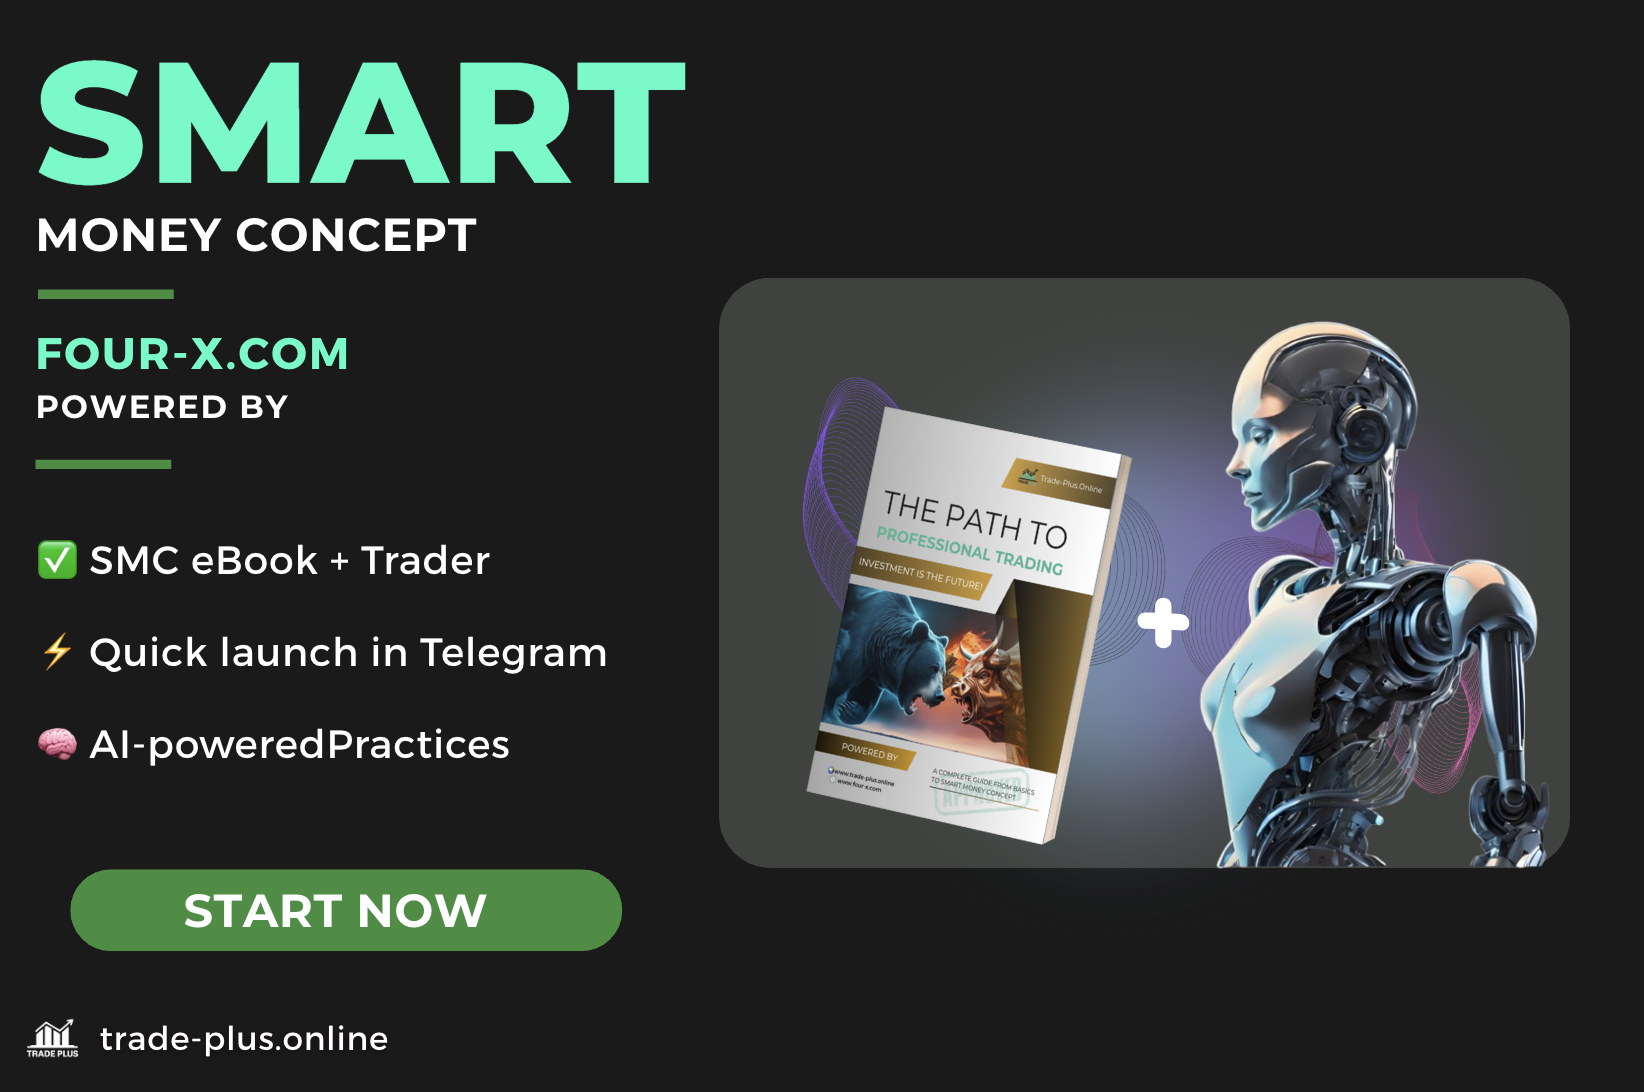
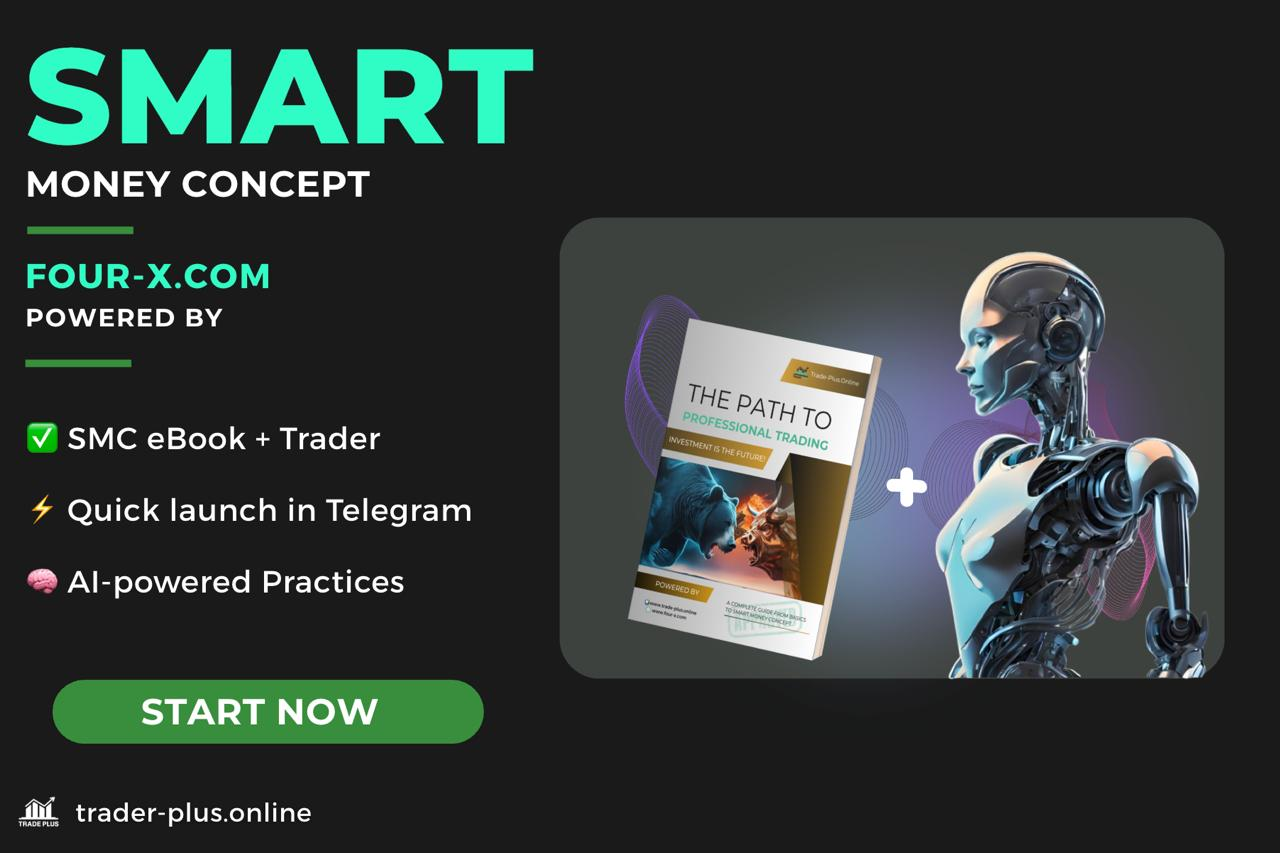
Rebrand: Change from TRADE PLUS to TRADER PLUS - Updated all frontend pages (index.html, pay.html) - Updated email template (latter.html) - Updated package.json and server.js - Updated documentation and CI/CD pipeline - Consistent branding across entire project

diff --git a/TradePlusOnline/index.html b/TradePlusOnline/index.html
@@ -3,13 +3,13 @@
 <head>
     <meta charset="UTF-8">
     <meta name="viewport" content="width=device-width, initial-scale=1.0">
-    <title>Trade Plus - Early Bird Pre-Order | Master Trading Strategies</title>
+    <title>Trader Plus - Early Bird Pre-Order | Master Trading Strategies</title>
     <meta name="description" content="🔥 Early Bird Special! Pre-order our exclusive trading course & AI bot at 80% OFF. Limited spots available. Master institutional trading strategies.">
     <meta name="keywords" content="trading course, trading bot, early bird, pre-order, institutional trading, smart money, forex, crypto">
-    <meta property="og:title" content="Trade Plus - Early Bird Pre-Order | 80% OFF Trading Course">
+    <meta property="og:title" content="Trader Plus - Early Bird Pre-Order | 80% OFF Trading Course">
     <meta property="og:description" content="Join 523+ early birds! Pre-order our trading course & AI bot combo at massive discount. Limited time offer!">
     <meta property="og:image" content="./assets/logowhite.png">
-    <meta property="og:url" content="https://tradeplus.com">
+    <meta property="og:url" content="https://traderplus.com">
     <link rel="icon" href="./assets/logowhite.png" type="image/png">
     
     <!-- Optimized CSS Loading -->
@@ -108,9 +108,9 @@
 <nav class="pt-16 pb-4 px-4 md:px-12 relative">
     <div class="flex flex-col md:flex-row items-center justify-between space-y-4 md:space-y-0">
         <div class="flex items-center space-x-4">
-            <img src="./assets/logowhite.png" alt="Trade Plus Logo" class="h-16 w-16 md:h-20 md:w-20 floating" loading="eager">
+            <img src="./assets/logowhite.png" alt="Trader Plus Logo" class="h-16 w-16 md:h-20 md:w-20 floating" loading="eager">
             <div class="text-left">
-                <h1 class="text-2xl md:text-3xl font-black gradient-text">TRADE PLUS</h1>
+                <h1 class="text-2xl md:text-3xl font-black gradient-text">TRADER PLUS</h1>
                 <p class="text-xs text-gray-300">Early Bird Pre-Order</p>
             </div>
         </div>
@@ -517,8 +517,8 @@
 <!-- Footer -->
 <footer class="bg-black py-12 px-4 md:px-12">
     <div class="max-w-7xl mx-auto text-center">
-        <img src="./assets/logowhite.png" alt="Trade Plus Logo" class="mx-auto w-16 mb-4">
-        <p class="text-gray-400 mb-4">Trade Plus © 2024 | Early Bird Pre-Orders Available</p>
+        <img src="./assets/logowhite.png" alt="Trader Plus Logo" class="mx-auto w-16 mb-4">
+        <p class="text-gray-400 mb-4">Trader Plus © 2024 | Early Bird Pre-Orders Available</p>
         
         <div class="flex justify-center space-x-6 text-sm">
             <a href="javascript:void(0);" onclick="openPopup('terms')" class="text-gray-400 hover:text-white">Terms</a>

diff --git a/latter.html b/latter.html
@@ -3,7 +3,7 @@
 <head>
   <meta charset="UTF-8">
   <meta name="viewport" content="width=device-width, initial-scale=1.0">
-  <title>Pre-Order Confirmation - Trade Plus</title>
+  <title>Pre-Order Confirmation - Trader Plus</title>
   <!--[if mso]>
   <noscript>
     <xml>
@@ -29,13 +29,13 @@
             <table role="presentation" cellspacing="0" cellpadding="0" border="0">
               <tr>
                 <td align="center" style="padding-bottom: 15px;">
-                  <img src="./assets/white_on_trans.png" alt="Trade Plus Logo" width="60" height="60" style="display: block;">
+                  <img src="./assets/white_on_trans.png" alt="Trader Plus Logo" width="60" height="60" style="display: block;">
                 </td>
               </tr>
             </table>
 
             <!-- Title -->
-            <h1 style="margin: 0; color: #ffffff; font-size: 28px; font-weight: bold; margin-bottom: 10px;">TRADE PLUS</h1>
+            <h1 style="margin: 0; color: #ffffff; font-size: 28px; font-weight: bold; margin-bottom: 10px;">TRADER PLUS</h1>
             <p style="margin: 0; color: #ffffff; font-size: 16px; opacity: 0.9;">Pre-Order Confirmation</p>
           </td>
         </tr>
@@ -80,7 +80,7 @@
         <!-- Footer -->
         <tr>
           <td style="background-color: #111827; padding: 20px; text-align: center;">
-            <p style="margin: 0; color: #9ca3af; font-size: 14px; margin-bottom: 5px;">&copy; 2024 Trade Plus. All rights reserved.</p>
+            <p style="margin: 0; color: #9ca3af; font-size: 14px; margin-bottom: 5px;">&copy; 2024 Trader Plus. All rights reserved.</p>
             <p style="margin: 0; color: #9ca3af; font-size: 14px;">This email was sent automatically. Please do not reply to this message.</p>
           </td>
         </tr>

diff --git a/TradePlusOnline/pay.html b/TradePlusOnline/pay.html
@@ -7,7 +7,7 @@
     <meta http-equiv="Cache-Control" content="no-cache, no-store, must-revalidate">
     <meta http-equiv="Pragma" content="no-cache">
     <meta http-equiv="Expires" content="0">
-    <title>Trade Plus</title>
+    <title>Trader Plus</title>
     <meta name="description" content="🔥 Secure your early bird spot! Pre-order our trading course & AI bot at 70% OFF. Limited spots available - Don't miss out!">
     <meta name="keywords" content="early bird, pre-order, trading course, trading bot, discount, limited offer">
     <link rel="icon" href="./assets/logowhite.png" type="image/png">
@@ -119,9 +119,9 @@
 <header class="pt-16 pb-8 px-4 md:px-12">
     <div class="max-w-6xl mx-auto flex items-center justify-between">
         <div class="flex items-center space-x-4">
-            <img src="./assets/logowhite.png" alt="Trade Plus Logo" class="h-12 w-12 floating" loading="eager">
+            <img src="./assets/logowhite.png" alt="Trader Plus Logo" class="h-12 w-12 floating" loading="eager">
             <div>
-                <h1 class="text-xl md:text-2xl font-black gradient-text">TRADE PLUS</h1>
+                <h1 class="text-xl md:text-2xl font-black gradient-text">TRADER PLUS</h1>
                 <p class="text-xs text-gray-300">Early Bird Pre-Order</p>
             </div>
         </div>

diff --git a/TradePlusOnline/server.js b/TradePlusOnline/server.js
@@ -287,7 +287,7 @@ process.on('SIGINT', () => {
 
 // Start server
 app.listen(PORT, () => {
-    console.log(`🚀 Trade Plus Early Bird Server running on port ${PORT}`);
+    console.log(`🚀 Trader Plus Early Bird Server running on port ${PORT}`);
     console.log(`🌐 Environment: ${NODE_ENV}`);
     console.log(`🌐 Visit: http://localhost:${PORT}`);
     console.log(`📡 API endpoint: http://localhost:${PORT}/api/preorder`);

diff --git a/DEPLOYMENT.md b/DEPLOYMENT.md
@@ -1,4 +1,4 @@
-# Trade Plus Deployment Guide
+# Trader Plus Deployment Guide
 
 ## Локальная разработка
 
